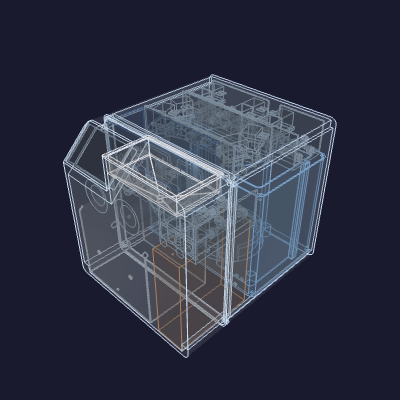
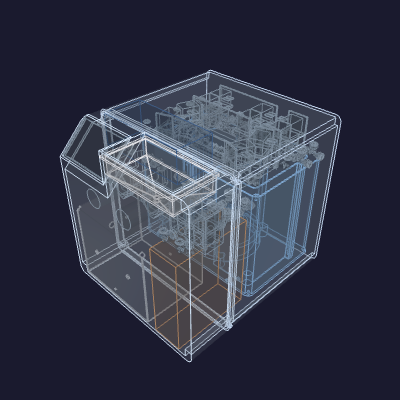
enclosure-assembly: show the two pump assemblies in Zone C, not the empty pump cases
Swap PUMP_CASE (pump-case-assembly.step, the printed cartridge housing) for
PUMP_ASSEMBLY (reference/kamoer-kphm400/pump-assembly.step — the Kamoer pump with
a 90° elbow on each outlet) in the enclosure contents. Same Zone-C lay-down
rotation and placement positions; placed/color keys pump-case-1/2 ->
pump-assembly-1/2.

The real pump+elbows is narrower than the empty case but ~15 mm taller (the
elbows turn up after the rotation), which raises the SeaFlo placeholder floating
on the pump top — a packing note in this non-collision-validated stand-in.

Changed region(s): [[0.15, 0.18, 0.87, 0.9], [0.27, 0.72, 0.3, 0.75]]

diff --git a/hardware/printed-parts/enclosure/enclosure-assembly/_contents.py b/hardware/printed-parts/enclosure/enclosure-assembly/_contents.py
@@ -1,9 +1,9 @@
 """Kitchen Edition enclosure contents — every internal subsystem packed.
 
 Detailed STEP imports where they exist (cold-core foam shell, the four
-valve-manifold tray assemblies with their seated valves, two pump-case
-assemblies, the compressor shroud). Placeholder boxes for parts that have no
-STEP yet (condenser+fan, SeaFlo diaphragm pump).
+valve-manifold tray assemblies with their seated valves, two pump assemblies
+(Kamoer pump + outlet elbows), the compressor shroud). Placeholder boxes for
+parts that have no STEP yet (condenser+fan, SeaFlo diaphragm pump).
 
 Coordinate frame: +X right, +Y back, +Z up. Origin at the lower-front-left
 corner.
@@ -13,7 +13,7 @@ stand-in (not collision-validated):
   * Zone A (back-bottom):  cold core (foam shell), on the floor, its −Y
     dispense/service ports facing forward toward the front zones.
   * Zone D (front-bottom): compressor shroud + condenser/fan + SeaFlo pump.
-  * Zone C (front-top):    the two pump cases (cartridge under the funnel).
+  * Zone C (front-top):    the two flavor pumps (under the funnel).
   * Zone B (back-top):     the four valve-manifold trays, above the cold core.
 """
 
@@ -27,9 +27,9 @@ _hw = _repo / "hardware"
 
 
 # --- Source STEPs ---------------------------------------------------------
-FOAM_SHELL  = _hw / "printed-parts" / "cold-core" / "foam-shell" / "foam-shell.step"
-COMP_SHROUD = _hw / "cut-parts" / "compressor-shroud" / "compressor-shroud.step"
-PUMP_CASE   = _hw / "printed-parts" / "flavor" / "pump-case" / "pump-case-assembly.step"
+FOAM_SHELL    = _hw / "printed-parts" / "cold-core" / "foam-shell" / "foam-shell.step"
+COMP_SHROUD   = _hw / "cut-parts" / "compressor-shroud" / "compressor-shroud.step"
+PUMP_ASSEMBLY = _hw / "reference" / "kamoer-kphm400" / "pump-assembly.step"
 _VM = _hw / "printed-parts" / "valve-manifold"
 TRAY_STEPS = {
     "source-select": _VM / "source-select-tray" / "source-select-assembly.step",
@@ -53,7 +53,7 @@ SEAFLO_DIMS = (75.0, 60.0, 175.0)
 # ahead of the cold core.
 FRONT_DEPTH = 155.0
 # Vertical gap between the bottom layer (cold core + front-bottom) and the
-# top layer (pump cases + trays).
+# top layer (pump assemblies + trays).
 LAYER_GAP = 5.0
 # The front half's corner ribs reach ~12.25 mm inboard from each side wall
 # (the boss chain: head counterbore + heat-set + cap). Front-bottom content set
@@ -77,8 +77,8 @@ COLORS = {
     "compressor-shroud": cq.Color(0.60, 0.62, 0.66),
     "condenser+fan":     cq.Color(0.78, 0.55, 0.35),
     "seaflo-pump":       cq.Color(0.20, 0.35, 0.55),
-    "pump-case-1":       cq.Color(0.45, 0.45, 0.50),
-    "pump-case-2":       cq.Color(0.55, 0.55, 0.60),
+    "pump-assembly-1":   cq.Color(0.45, 0.45, 0.50),
+    "pump-assembly-2":   cq.Color(0.55, 0.55, 0.60),
     "source-select":     cq.Color(0.45, 0.70, 0.45),
     "bag-circuit":       cq.Color(0.90, 0.66, 0.32),
     "bib-gate":          cq.Color(0.62, 0.47, 0.82),
@@ -133,15 +133,15 @@ def build():
     placed["condenser+fan"] = _at(cond, cold_w - CONDENSER_AIRFLOW - SIDE_RIB_INSET, 0.0, SEAM_CLEAR_LIFT)
     cond_top_z = SEAM_CLEAR_LIFT + CONDENSER_FACE_A
 
-    # --- Zone C: the pump cartridge sits low on the compressor top, the SeaFlo
-    # laid flat across the cases above them. The whole right column above the
-    # condenser is left open as the hopper-funnel reserve — funnel on the right,
-    # toward the front.
-    pc1 = _rot(_load(PUMP_CASE), (1, 0, 0), 90.0)      # 76 x 136 x 74 (short axis up)
-    pc2 = _rot(_load(PUMP_CASE), (1, 0, 0), 90.0)
-    placed["pump-case-1"] = _at(pc1, 20.0, 12.0, comp_top_z)
-    placed["pump-case-2"] = _at(pc2, 100.0, 12.0, comp_top_z)
-    pump_top_z = comp_top_z + pc1.BoundingBox().zlen
+    # --- Zone C: the two flavor pumps sit low on the compressor top, the SeaFlo
+    # laid flat across them above. The whole right column above the condenser is
+    # left open as the hopper-funnel reserve — funnel on the right, toward the
+    # front.
+    pa1 = _rot(_load(PUMP_ASSEMBLY), (1, 0, 0), 90.0)  # depth axis along Y, elbows up
+    pa2 = _rot(_load(PUMP_ASSEMBLY), (1, 0, 0), 90.0)
+    placed["pump-assembly-1"] = _at(pa1, 20.0, 12.0, comp_top_z)
+    placed["pump-assembly-2"] = _at(pa2, 100.0, 12.0, comp_top_z)
+    pump_top_z = comp_top_z + pa1.BoundingBox().zlen
     sf_w, sf_d, sf_h = SEAFLO_DIMS                      # [75 x 60 x 175](SEAFLO_DIMS)
     seaflo = _box(sf_h, sf_w, sf_d)                    # 175 x 75 x 60, long axis along X
     placed["seaflo-pump"] = _at(seaflo, 14.0, 80.0, pump_top_z)
